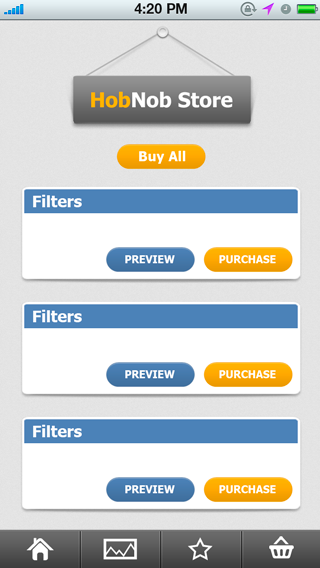
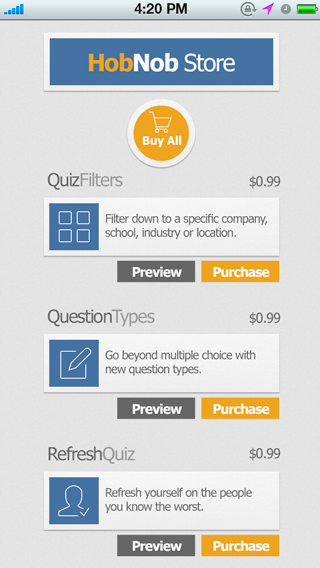
Began Work on new Store (Still layout issues)

diff --git a/QuizIn/QuizIn/Source/Classes/UI/Screens/HomeTabs/StoreView/QIStoreTableHeaderView.m b/QuizIn/QuizIn/Source/Classes/UI/Screens/HomeTabs/StoreView/QIStoreTableHeaderView.m
@@ -17,8 +17,7 @@
     if (self) {
       _sign = [self newSign];
       _buyAllButton = [self newBuyAllButton];
-      _bestOfferLabel = [self newLabelWithText:@"BEST OFFER"];
-      _buyAllPriceLabel = [self newLabelWithText:@"$x.xx"];
+      _bestOfferLabel = [self newLabelWithText:@"33% Off"];
       _checkmark = [self newCheckMarkImage]; 
       [self constructViewHierarchy];
     }
@@ -28,11 +27,6 @@
 - (void)setAllPurchased:(BOOL)allPurchased{
   _allPurchased = allPurchased;
   [self updateBuyAllButton];
-}
-
-- (void)setAllPrice:(NSString *)allPrice{
-  _allPrice = allPrice;
-  [self updateAllPrice];
 }
 
 #pragma mark Data Layout
@@ -47,16 +41,11 @@
   }
 }
 
--(void)updateAllPrice{
-  self.buyAllPriceLabel.text = self.allPrice; 
-}
-
 #pragma mark View Hierarchy
 - (void)constructViewHierarchy{
   [self addSubview:self.sign];
   [self addSubview:self.buyAllButton];
   [self addSubview:self.bestOfferLabel];
-  [self addSubview:self.buyAllPriceLabel];
   [self addSubview:self.checkmark]; 
 }
 
@@ -71,17 +60,17 @@
   if (!self.constraints){
     self.constraints = [NSMutableArray array];
     
-    NSDictionary *headerViews = NSDictionaryOfVariableBindings(_sign, _buyAllButton, _bestOfferLabel, _buyAllPriceLabel, _checkmark);
+    NSDictionary *headerViews = NSDictionaryOfVariableBindings(_sign, _buyAllButton, _bestOfferLabel, _checkmark);
     
     //Place Sign
     NSArray *hSignConstraints =
-    [NSLayoutConstraint constraintsWithVisualFormat:@"H:[_sign(==194)]"
+    [NSLayoutConstraint constraintsWithVisualFormat:@"H:[_sign(==238)]"
                                             options:0
                                             metrics:nil
                                               views:headerViews];
     
     NSArray *vSignConstraints =
-    [NSLayoutConstraint constraintsWithVisualFormat:@"V:|[_sign(==112)]"
+    [NSLayoutConstraint constraintsWithVisualFormat:@"V:|-40-[_sign(==60)]"
                                             options:0
                                             metrics:nil
                                               views:headerViews];
@@ -91,11 +80,11 @@
     //Place Button
     NSLayoutConstraint *centerButton = [NSLayoutConstraint constraintWithItem:_buyAllButton  attribute:NSLayoutAttributeCenterX relatedBy:NSLayoutRelationEqual toItem:_sign attribute:NSLayoutAttributeCenterX multiplier:1.0f constant:0.0f];
     
-    NSLayoutConstraint *vButton = [NSLayoutConstraint constraintWithItem:_buyAllButton attribute:NSLayoutAttributeTop relatedBy:NSLayoutRelationEqual toItem:_sign attribute:NSLayoutAttributeTop multiplier:1.0f constant:130.0f];
+    NSLayoutConstraint *vButton = [NSLayoutConstraint constraintWithItem:_buyAllButton attribute:NSLayoutAttributeTop relatedBy:NSLayoutRelationEqual toItem:_sign attribute:NSLayoutAttributeTop multiplier:1.0f constant:70.0f];
     
     //Place Labels
     NSArray *vButtonConstraints =
-    [NSLayoutConstraint constraintsWithVisualFormat:@"V:[_buyAllButton]-(-64)-[_bestOfferLabel(==10)]-28-[_buyAllPriceLabel(==10)]"
+    [NSLayoutConstraint constraintsWithVisualFormat:@"V:[_buyAllButton]-3-[_bestOfferLabel(==10)]"
                                             options:NSLayoutFormatAlignAllCenterX
                                             metrics:nil
                                               views:headerViews];
@@ -116,14 +105,14 @@
 
 #pragma mark Factory Methods
 - (UIImageView *)newSign{
-  UIImageView *sign = [[UIImageView alloc] initWithImage:[UIImage imageNamed:@"hobnob_store_titlesign"]];
+  UIImageView *sign = [[UIImageView alloc] initWithImage:[UIImage imageNamed:@"store_sign"]];
   [sign setTranslatesAutoresizingMaskIntoConstraints:NO];
   return sign;
 }
 
 - (UIButton *)newBuyAllButton {
   UIButton *button = [UIButton buttonWithType:UIButtonTypeCustom];
-  [button setImage:[UIImage imageNamed:@"hobnob_store_buyall_btn"] forState:UIControlStateNormal];
+  [button setImage:[UIImage imageNamed:@"store_buyall_btn"] forState:UIControlStateNormal];
   [button setTranslatesAutoresizingMaskIntoConstraints:NO];
   [button setHidden:YES]; 
   return button;
@@ -133,8 +122,8 @@
   UILabel *label = [[UILabel alloc] init];
   [label setTranslatesAutoresizingMaskIntoConstraints:NO];
   [label setBackgroundColor:[UIColor clearColor]];
-  [label setFont:[QIFontProvider fontWithSize:9.0f style:Regular]];
-  [label setTextColor:[UIColor colorWithWhite:1.0f alpha:.9f]];
+  [label setFont:[QIFontProvider fontWithSize:10.0f style:Regular]];
+  [label setTextColor:[UIColor colorWithWhite:.15f alpha:1.0f]];
   [label setAdjustsFontSizeToFitWidth:YES];
   [label setTextAlignment:NSTextAlignmentCenter];
   [label setHidden:YES]; 

diff --git a/QuizIn/QuizIn/Source/Classes/UI/Screens/HomeTabs/StoreView/QIStoreSectionHeaderView.m b/QuizIn/QuizIn/Source/Classes/UI/Screens/HomeTabs/StoreView/QIStoreSectionHeaderView.m
@@ -4,13 +4,10 @@
 
 @interface QIStoreSectionHeaderView ()
 
-@property (nonatomic, strong) UIImageView *divider;
 @property (nonatomic, strong) UILabel *sectionTitleLabel;
-
 @property (nonatomic, strong) NSMutableArray *constraints; 
 
 @end
-
 
 @implementation QIStoreSectionHeaderView
 
@@ -22,13 +19,12 @@
 {
     self = [super initWithFrame:frame];
     if (self) {
-      _divider = [self newDivider];
       _sectionTitleLabel = [self newTitleLabel];
-      
       [self constructViewHierarchy]; 
     }
     return self;
 }
+
 #pragma mark Properties
 - (void)setSectionTitle:(NSString *)sectionTitle{
   _sectionTitle = sectionTitle;
@@ -42,7 +38,6 @@
 
 #pragma mark View Hierarchy
 - (void)constructViewHierarchy{
-  [self addSubview:self.divider];
   [self addSubview:self.sectionTitleLabel]; 
 }
 
@@ -57,14 +52,7 @@
   if (!self.constraints){
     self.constraints = [NSMutableArray array];
     
-    NSDictionary *headerViews = NSDictionaryOfVariableBindings(_divider, _sectionTitleLabel);
-  
-    //Place Sign
-    NSArray *hDividerConstraints =
-    [NSLayoutConstraint constraintsWithVisualFormat:@"H:|-10-[_divider]-10-|"
-                                            options:0
-                                            metrics:nil
-                                              views:headerViews];
+    NSDictionary *headerViews = NSDictionaryOfVariableBindings(_sectionTitleLabel);
     
     NSArray *hTitleConstraints =
     [NSLayoutConstraint constraintsWithVisualFormat:@"H:|-15-[_sectionTitleLabel]|"
@@ -73,23 +61,17 @@
                                               views:headerViews];
     
     NSArray *vHeaderConstraints =
-    [NSLayoutConstraint constraintsWithVisualFormat:@"V:|-20-[_sectionTitleLabel][_divider(==2)]-3-|"
+    [NSLayoutConstraint constraintsWithVisualFormat:@"V:|-20-[_sectionTitleLabel]-5-|"
                                             options:0
                                             metrics:nil
                                               views:headerViews];
     
-    [self.constraints addObjectsFromArray:hDividerConstraints];
     [self.constraints addObjectsFromArray:hTitleConstraints];
     [self.constraints addObjectsFromArray:vHeaderConstraints];
     
     [self addConstraints:self.constraints]; 
 
   }
-}
-- (UIImageView *)newDivider{
-  UIImageView *divider = [[UIImageView alloc] initWithImage:[UIImage imageNamed:@"quizin_divider"]];
-  [divider setTranslatesAutoresizingMaskIntoConstraints:NO];
-  return divider;
 }
 
 - (UILabel *)newTitleLabel {

diff --git a/QuizIn/QuizIn/Source/Classes/UI/Screens/HomeTabs/StoreView/QIStoreData.m b/QuizIn/QuizIn/Source/Classes/UI/Screens/HomeTabs/StoreView/QIStoreData.m
@@ -78,7 +78,7 @@
   if ([filterPurchasesItems count]>0){
     [storeItems addObject:
      @{
-     @"type":@"Focus With Filters",
+     @"type":@"QuizFilters",
      @"item":filterPurchasesItems,
      }];
   }
@@ -86,7 +86,7 @@
   if ([questionPurchasesItems count]>0){
     [storeItems addObject:
      @{
-     @"type":@"Harden With Variety",
+     @"type":@"QuestionTypes",
      @"item":questionPurchasesItems,
      }];
   }
@@ -94,7 +94,7 @@
   if ([detailPurchasesItems count]>0){
     [storeItems addObject:
      @{
-     @"type":@"Refresh Yourself",
+     @"type":@"RefreshQuiz",
      @"item":detailPurchasesItems,
      }];
   }
@@ -140,10 +140,10 @@
       return @"Get them all at a discount.";
       break;
     case 1: //@"com.kuhlmanation.hobnob.q_pack",
-      return @"Go beyond multiple choice with new question types.";
+      return @"Go beyond multiple choice with more question types.";
       break;
     case 2: //@"com.kuhlmanation.hobnob.f_pack"
-      return @"Filter down to a specific company, school, industry, or location.";
+      return @"Filter quizzes down to a specific company, school, industry, or location.";
       break;
     case 3: //@"com.kuhlmanation.hobnob.r_pack"
       return @"Refresh yourself on the people you know the worst.";
@@ -165,19 +165,19 @@
   
   switch ([productIdentifiers indexOfObject:product.productIdentifier]) {
     case 0: //@"com.kuhlmanation.hobnob.p_kit"
-      return [UIImage imageNamed:@"store_producticon_businesscard"];
+      return [UIImage imageNamed:@"store_card_questiontypes"];
       break;
     case 1: //@"com.kuhlmanation.hobnob.q_pack"
-      return [UIImage imageNamed:@"store_producticon_businesscard"];
+      return [UIImage imageNamed:@"store_card_questiontypes"];
       break;
     case 2: //@"com.kuhlmanation.hobnob.f_pack"
-      return [UIImage imageNamed:@"store_producticon_company"];
+      return [UIImage imageNamed:@"store_card_quizfilters"];
       break;
     case 3: //@"com.kuhlmanation.hobnob.r_pack"
-      return [UIImage imageNamed:@"store_producticon_leastofthese"];
+      return [UIImage imageNamed:@"store_card_refreshquiz"];
       break;
     default:
-      return [UIImage imageNamed:@"store_producticon_businesscard"];
+      return [UIImage imageNamed:@"store_card_refreshquiz"];
       break;
   }
 }

diff --git a/QuizIn/QuizIn/Source/Classes/UI/Screens/HomeTabs/StoreView/QIStoreTableHeaderView.h b/QuizIn/QuizIn/Source/Classes/UI/Screens/HomeTabs/StoreView/QIStoreTableHeaderView.h
@@ -1,11 +1,3 @@
-//
-//  QIStoreTableHeaderView.h
-//  QuizIn
-//
-//  Created by Rick Kuhlman on 7/28/13.
-//  Copyright (c) 2013 Kuhlmanation LLC. All rights reserved.
-//
-
 #import <UIKit/UIKit.h>
 
 @interface QIStoreTableHeaderView : UIView
@@ -13,7 +5,6 @@
 @property (nonatomic, strong) UIButton *buyAllButton;
 @property (nonatomic, strong) UILabel *bestOfferLabel;
 @property (nonatomic, strong) UILabel *buyAllPriceLabel;
-@property (nonatomic, strong) NSString *allPrice; 
 @property (nonatomic, strong) UIImageView *checkmark;
 @property (nonatomic, assign) BOOL allPurchased;
 

diff --git a/QuizIn/QuizIn/Source/Classes/UI/Screens/HomeTabs/StoreView/QIStoreViewController.m b/QuizIn/QuizIn/Source/Classes/UI/Screens/HomeTabs/StoreView/QIStoreViewController.m
@@ -131,8 +131,6 @@
         [self.storeView.headerView.buyAllPriceLabel setHidden:NO];
         [self.storeView.tableView setHidden:NO];
         [self.storeView.headerView setAllPurchased:[[item objectForKey:@"itemPurchased"] boolValue]];
-        [self.storeView.headerView setAllPrice:[item objectForKey:@"itemPrice"]];
-        
         [self.storeView.storeStatusLabel setHidden:YES];
         [self.storeView.refreshButton setHidden:YES];
         [self.storeView.activity stopAnimating];

diff --git a/QuizIn/QuizIn/Source/Classes/UI/Screens/Quizzes/Matching/QIMatchingQuizViewController.m b/QuizIn/QuizIn/Source/Classes/UI/Screens/Quizzes/Matching/QIMatchingQuizViewController.m
@@ -67,8 +67,7 @@
                                 cancelButtonTitle:cancelTitle
                                 destructiveButtonTitle:nil
                                 otherButtonTitles:other0, other1, other2, other3, nil];
-  //[actionSheet setOpaque:NO];
-  //[actionSheet setAlpha:.8f];
+
   [actionSheet setTintColor:[UIColor colorWithRed:.27f green:.45f blue:.64f alpha:1.0f]];
   [actionSheet showInView:self.view];
 }

diff --git a/QuizIn/QuizIn/Source/Classes/UI/Screens/Quizzes/BusinessCard/QIBusinessCardViewController.m b/QuizIn/QuizIn/Source/Classes/UI/Screens/Quizzes/BusinessCard/QIBusinessCardViewController.m
@@ -63,8 +63,7 @@
                                 cancelButtonTitle:cancelTitle
                                 destructiveButtonTitle:nil
                                 otherButtonTitles:other1, nil];
-  //[actionSheet setOpaque:NO];
-  //[actionSheet setAlpha:.8f];
+  
   [actionSheet setTintColor:[UIColor colorWithRed:.27f green:.45f blue:.64f alpha:1.0f]];
   [actionSheet showInView:self.view];
 }

diff --git a/QuizIn/QuizIn/Source/Classes/UI/Screens/Quizzes/MultipleChoice/QIMultipleChoiceQuizViewController.m b/QuizIn/QuizIn/Source/Classes/UI/Screens/Quizzes/MultipleChoice/QIMultipleChoiceQuizViewController.m
@@ -66,8 +66,7 @@
                                 cancelButtonTitle:cancelTitle
                                 destructiveButtonTitle:nil
                                 otherButtonTitles:other1, nil];
-  //[actionSheet setOpaque:NO];
-  //[actionSheet setAlpha:.8f];
+
   [actionSheet setTintColor:[UIColor colorWithRed:.27f green:.45f blue:.64f alpha:1.0f]];
   [actionSheet showInView:self.view];
 }

diff --git a/QuizIn/QuizIn/Source/Classes/UI/Screens/HomeTabs/StoreView/QIStoreCellView.m b/QuizIn/QuizIn/Source/Classes/UI/Screens/HomeTabs/StoreView/QIStoreCellView.m
@@ -246,7 +246,7 @@
 
 - (UIButton *)newBuyButton {
   UIButton *button = [UIButton buttonWithType:UIButtonTypeCustom];
-  [button setImage:[UIImage imageNamed:@"store_purchasel_btn"] forState:UIControlStateNormal];
+  [button setImage:[UIImage imageNamed:@"store_purchase_btn"] forState:UIControlStateNormal];
   [button setTranslatesAutoresizingMaskIntoConstraints:NO];
   return button;
 }

diff --git a/QuizIn/QuizIn/Source/Classes/UI/Screens/HomeTabs/StoreView/QIStoreView.m b/QuizIn/QuizIn/Source/Classes/UI/Screens/HomeTabs/StoreView/QIStoreView.m
@@ -235,7 +235,7 @@
 }
 
 - (QIStoreTableHeaderView *)newHeaderView{
-  QIStoreTableHeaderView *headerView = [[QIStoreTableHeaderView alloc] initWithFrame:CGRectMake(0, 0, 320, 230)];
+  QIStoreTableHeaderView *headerView = [[QIStoreTableHeaderView alloc] initWithFrame:CGRectMake(0, 0, 320, 200)];
   [headerView setBackgroundColor:[UIColor clearColor]];
   return headerView;
 }

diff --git a/QuizIn/QuizIn/Source/Classes/UI/Screens/Login/QILoginScreenView.m b/QuizIn/QuizIn/Source/Classes/UI/Screens/Login/QILoginScreenView.m
@@ -99,7 +99,6 @@
 -(UIScrollView *)newPreviewScrollView{
   UIScrollView *previewView = [[UIScrollView alloc] init];
   [previewView setDelegate:self];
-  [previewView setBackgroundColor:[UIColor redColor]];
   [previewView setTranslatesAutoresizingMaskIntoConstraints:NO];
   [previewView setPagingEnabled:YES];
   [previewView setShowsHorizontalScrollIndicator:NO];

diff --git a/QuizIn/QuizIn/Source/Classes/UI/QIApplicationViewController.m b/QuizIn/QuizIn/Source/Classes/UI/QIApplicationViewController.m
@@ -36,7 +36,6 @@
 
 - (void) loadView {
   self.view = [[UIView alloc] init];
-  self.view.backgroundColor = [UIColor redColor];
 }
 
 - (void)viewDidLoad {
